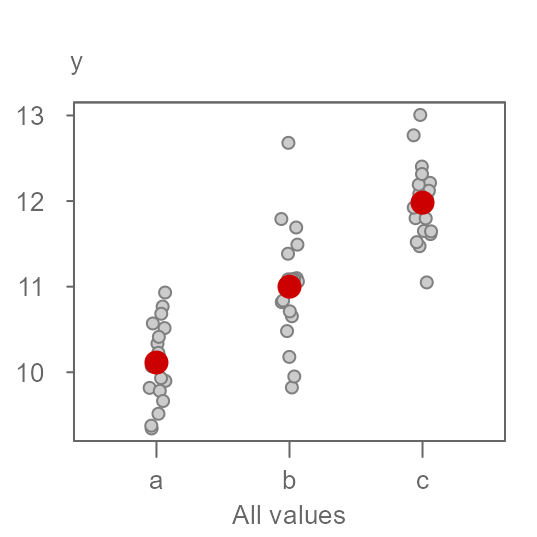
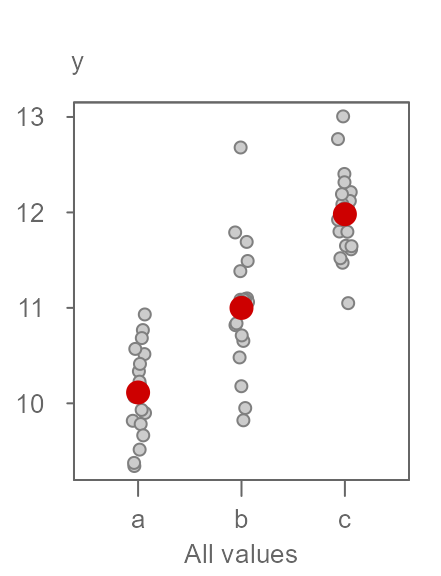
continue work

diff --git a/docs/articles/rfs.html b/docs/articles/rfs.html
@@ -79,7 +79,7 @@
                         <h4 data-toc-skip class="author">Manuel
 Gimond</h4>
             
-            <h4 data-toc-skip class="date">2024-10-02</h4>
+            <h4 data-toc-skip class="date">2024-10-03</h4>
       
       <small class="dont-index">Source: <a href="https://github.com/mgimond/tukeyedar/blob/HEAD/vignettes/rfs.Rmd" class="external-link"><code>vignettes/rfs.Rmd</code></a></small>
       <div class="d-none name"><code>rfs.Rmd</code></div>
@@ -141,24 +141,87 @@ reduce the variability, or the “randomness” in our estimation of
 into, we can come up with a more precise estimate of the value while
 reducing the undertainty associated with that estimate.</p>
 <div class="figure" style="text-align: center">
-<img src="rfs_files/figure-html/unnamed-chunk-4-1.png" alt="Figure 2. Same batch of values split across three groups with each group's mean displayed as a red point values with the mean value represented as a red point." width="268.8"><p class="caption">
+<img src="rfs_files/figure-html/unnamed-chunk-4-1.png" alt="Figure 2. Same batch of values split across three groups with each group's mean displayed as a red point values with the mean value represented as a red point." width="220.8"><p class="caption">
 Figure 2. Same batch of values split across three groups with each
 group’s mean displayed as a red point values with the mean value
 represented as a red point.
 </p>
 </div>
-<p>Eyeballing the three batches, it seems that the uncertainty or noise
-in the data is reduced down to around two units–an improvement in our
-estimation. An rfs plot helps us assess how will the grouping variable
-helps improve on our estimation in <code>y</code> vis-a-vis the
-variability in the data.</p>
+<p>Eyeballing the three batches, it seems that the residuals in the data
+are reduced down to around two units–an improvement in our estimation
+since there is less uncertainty in the estimated value if we know which
+group the value belongs to.</p>
+<p>The uncertainty seems consistent across all three batches, but note
+the outlier in batch <code>b</code> which may make it seem as though
+batch <code>b</code> has greater variability in its residuals. This
+brings up an issue as to how best to visualize the spread of the
+residuals in the data. In the above figures, we are jittering the points
+to help separate the observations, but this does not help us see how the
+residuals are distributed. In other words, are they uniformly
+distributed about the visible range of 2 units, or do they follow a bell
+shaped curve? We could generated violin plots to help visualize the
+distributions as shown in Figure 3.</p>
 <div class="figure" style="text-align: center">
-<img src="rfs_files/figure-html/unnamed-chunk-5-1.png" alt="Figure 3. A residual-fit spread plot. Each observation is split between its mean value (left plot) and its residual (right plot). TO facilitate comparison between both plots, the mean value is centered on zero. Its residual counterpart is already centered on 0 given that it's the error about the group's mean value." width="480"><p class="caption">
-Figure 3. A residual-fit spread plot. Each observation is split between
-its mean value (left plot) and its residual (right plot). TO facilitate
-comparison between both plots, the mean value is centered on zero. Its
-residual counterpart is already centered on 0 given that it’s the error
-about the group’s mean value.
+<img src="rfs_files/figure-html/unnamed-chunk-5-1.png" alt="Figure 3. Violin plots. Dashed lines show the mean values for each batch. The bisque colored inner region highlights where 50% of the residual values lie" width="384"><p class="caption">
+Figure 3. Violin plots. Dashed lines show the mean values for each
+batch. The bisque colored inner region highlights where 50% of the
+residual values lie
+</p>
+</div>
+<p>The bisque colored inner region in the Figure 3 violin plots
+highlight where 50% of the mid values lie in the distributions. The
+<em>significance</em> in our ability to correctly estimate the mean
+values of <span class="math inline">\(y\)</span> increases by quite a
+bit when focusing on the inner 50% of residuals (2 units / 0.5 units or
+a four fold difference in spreads between estimates and residuals).</p>
+<p>Now, if we choose to focus on the inner 95% of the residuals, the
+difference in spreads between fitted values and residuals becomes a bit
+more modest as can be seen in Figure 4.</p>
+<div class="figure" style="text-align: center">
+<img src="rfs_files/figure-html/unnamed-chunk-6-1.png" alt="Figure 4. Violin plots. The bisque colored inner region highlights where 95% of the residual values lie." width="384"><p class="caption">
+Figure 4. Violin plots. The bisque colored inner region highlights where
+95% of the residual values lie.
+</p>
+</div>
+<p>Here, the residuals can span anywhere from 3 units (batch
+<code>a</code>) to 4 units (batch <code>b</code>). On average, we can
+say that the spread in residuals covers roughly 3.5 units. This makes
+the spread in fitted values about half of the spread in residuals when
+characterize as the mid 95% of values.</p>
+<p>One can quickly see how our assessment of the value in adding a
+grouping variable to the data can be biased based on what mid portion of
+the resdiuals we should emphasize. For example, we probably don’t want
+to focus on the full range since outliers may not be representative of
+the full dataset. Conversely, the mid 50% of residuals may be too
+restrictive. Ideally, we would want to have a plot that does not place
+emphasis on a single measure of spread when comparing spreads in fitted
+values to spreads in residuals. A Cleveland residual-fit spread plot
+(rfs for short) is designed to facilitate the comparison of spreads. Key
+elements of the plot should include:</p>
+<ul>
+<li>Placing ephasis on the spreads of the fitted values and not their
+absolute values. This requires that the overall mean value be subtracted
+from the fitted values to center the latter around zero (this aligns the
+center of the fitted values with the residuals which are centered around
+zero by construct).</li>
+<li>Order the fitted values and the residuals based on their respective
+ranks. This facilitates the comparison of pre-specified percentage of
+inner spread such as the 50% or 95% spreads used in the earlier
+examples</li>
+</ul>
+<p>The above criteria can be satisfied by making use of side-by-side
+quantile plots where a quantile plot of the fitted values (minus the
+global mean) are paired up with a quantile plot of the residuals. The
+residual-fit spread plot for the working example is shown in figure
+5.</p>
+<div class="figure" style="text-align: center">
+<img src="rfs_files/figure-html/unnamed-chunk-7-1.png" alt="Figure 5. A residual-fit spread plot. Each observation is split between its fitted value--the group mean--(left plot) and its residual (right plot). To facilitate comparison between both plots, the mean values are centered on zero and the data are sorted giving use side-by-side quantile plots. The x-axis is the fraction of values (f-value) in each plot that are at or below the matching value on the y-axis." width="480"><p class="caption">
+Figure 5. A residual-fit spread plot. Each observation is split between
+its fitted value–the group mean–(left plot) and its residual (right
+plot). To facilitate comparison between both plots, the mean values are
+centered on zero and the data are sorted giving use side-by-side
+quantile plots. The x-axis is the fraction of values (f-value) in each
+plot that are at or below the matching value on the y-axis.
 </p>
 </div>
 </div>

diff --git a/NEWS.md b/NEWS.md
@@ -1,7 +1,8 @@
 # tukeyedar 0.2.7
 *  Added the `eda_rfs` function (the Cleveland residual-fit spread plot).
+*  Added the `eda_viol` function that generates a violin plot.
 * `eda_lm` now outputs an `eda_lm` class.
-* `eda_rline` now outputs `fitted.values`.
+* `eda_rline` now outputs `fitted.values` class.
 
 # tukeyedar 0.2.6
 * Added the quantile-difference plot to the `eda_qq` function.
